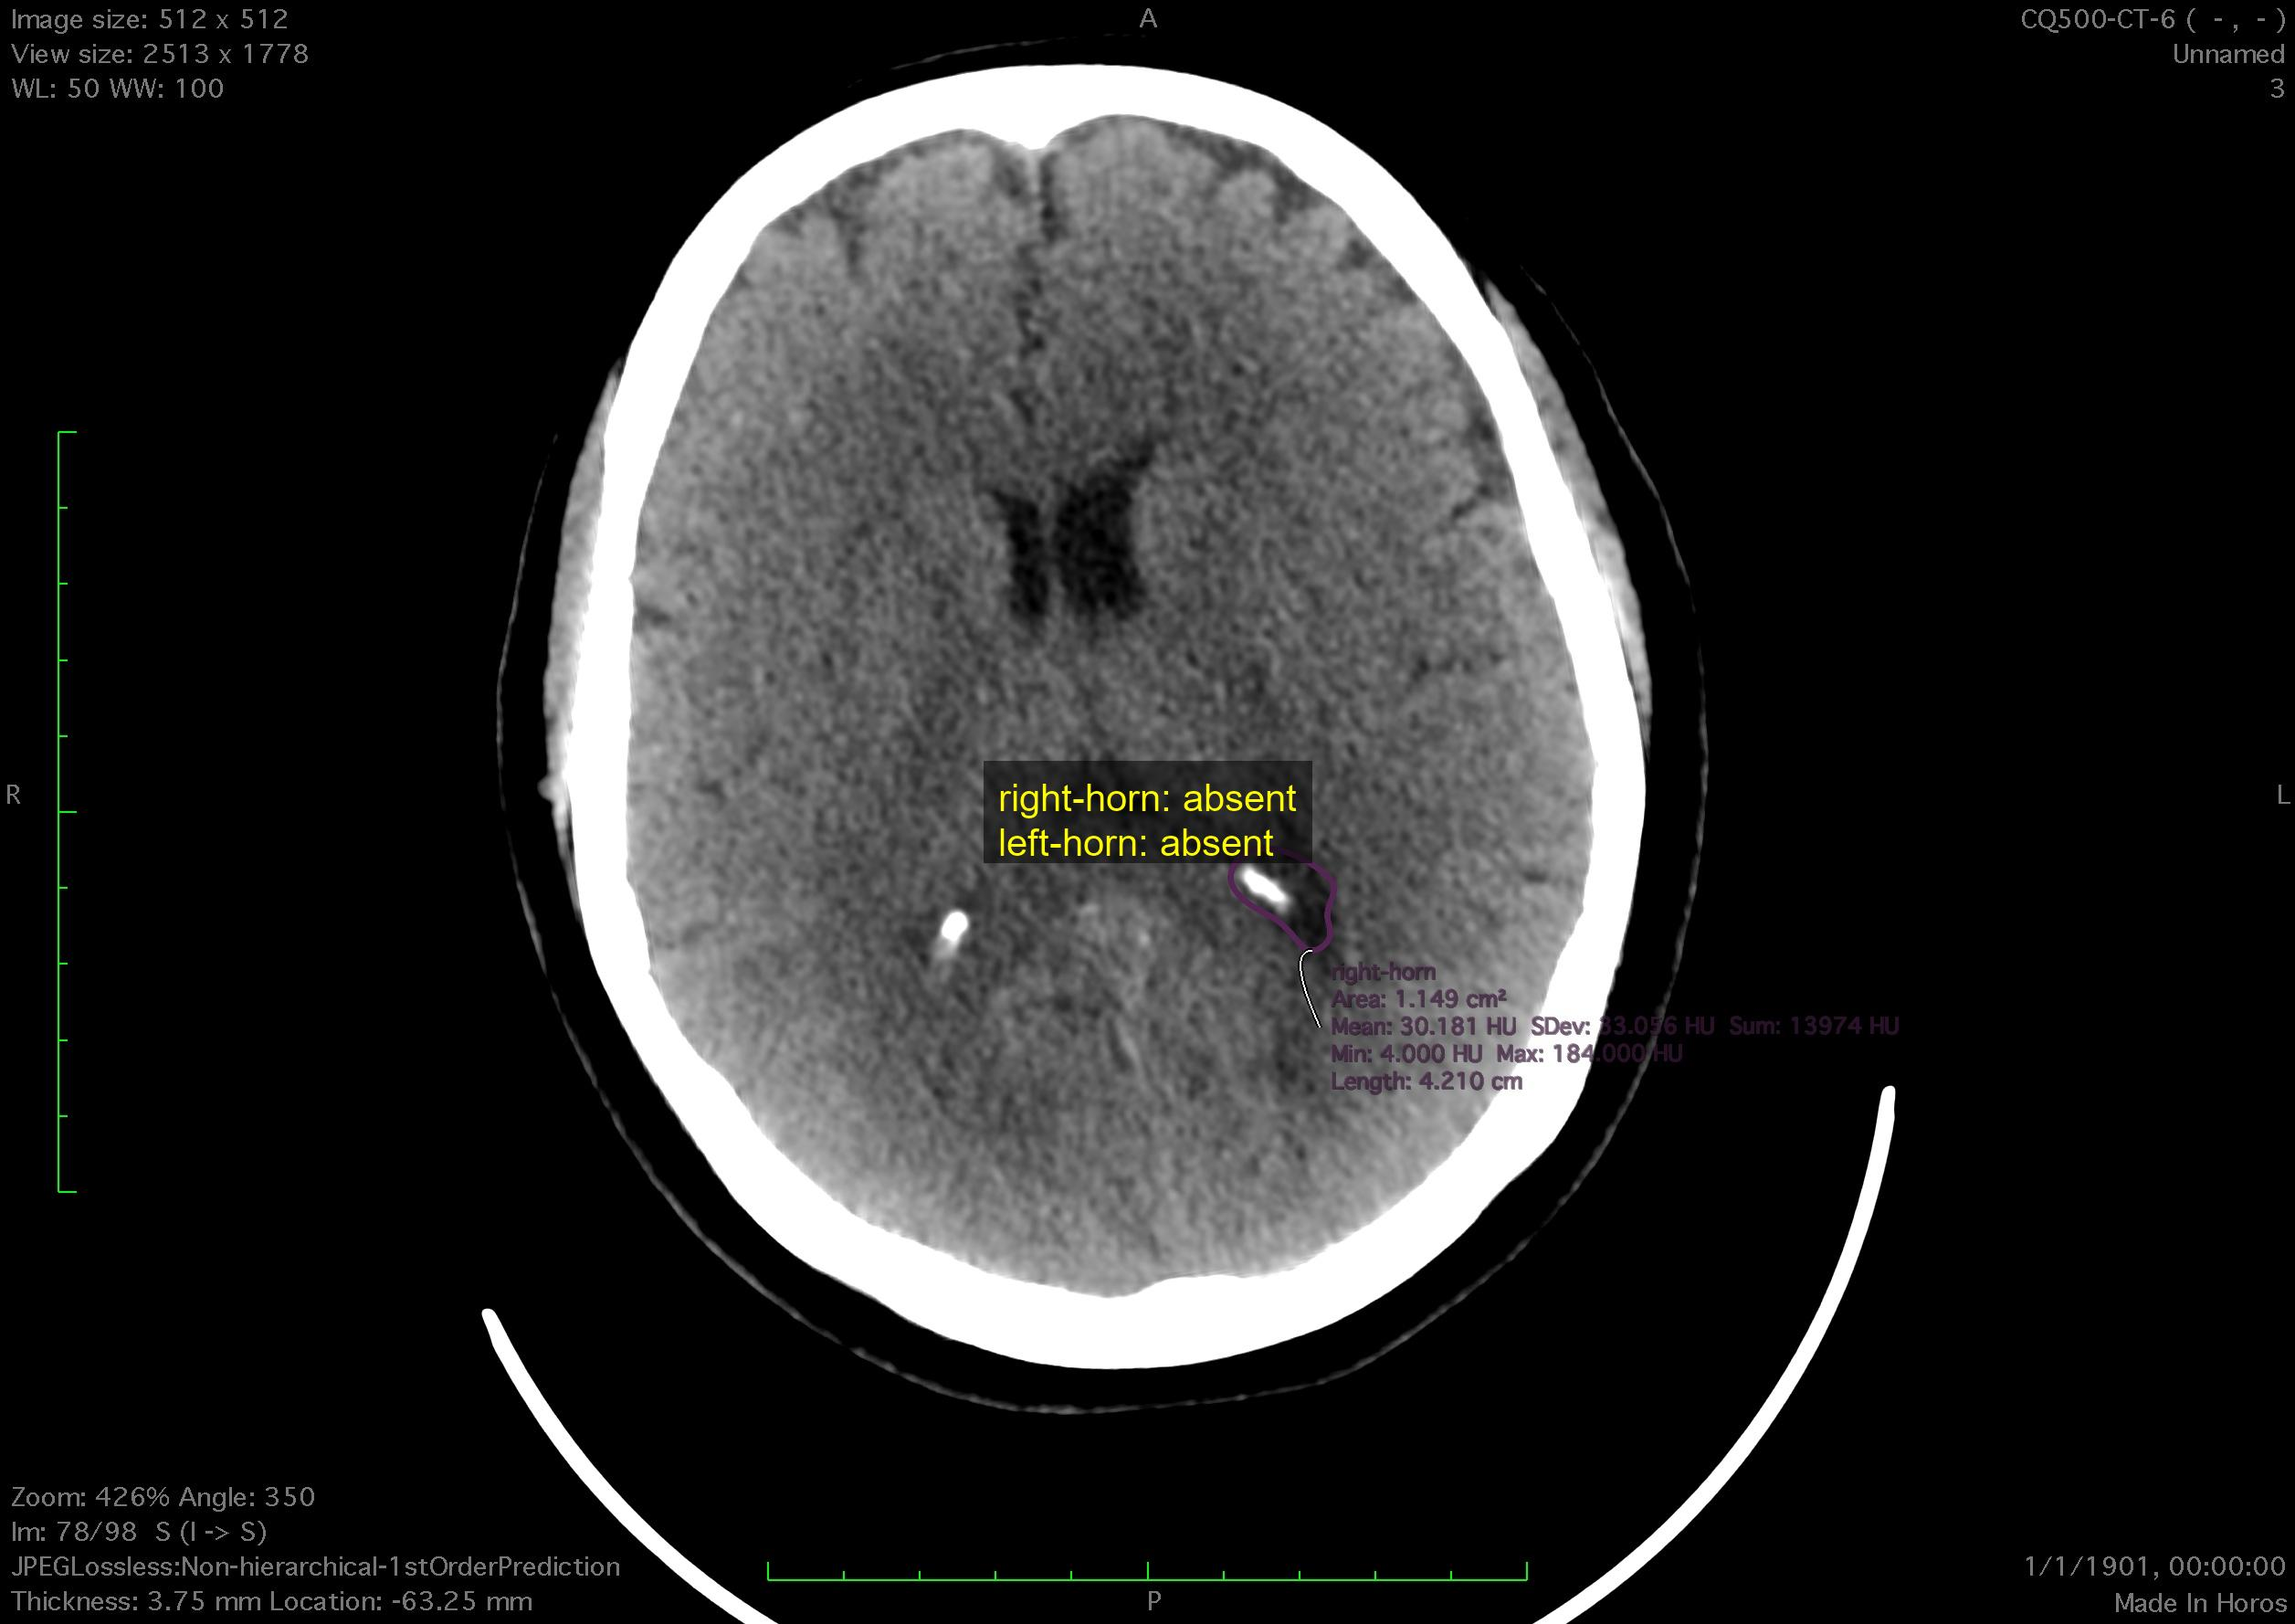
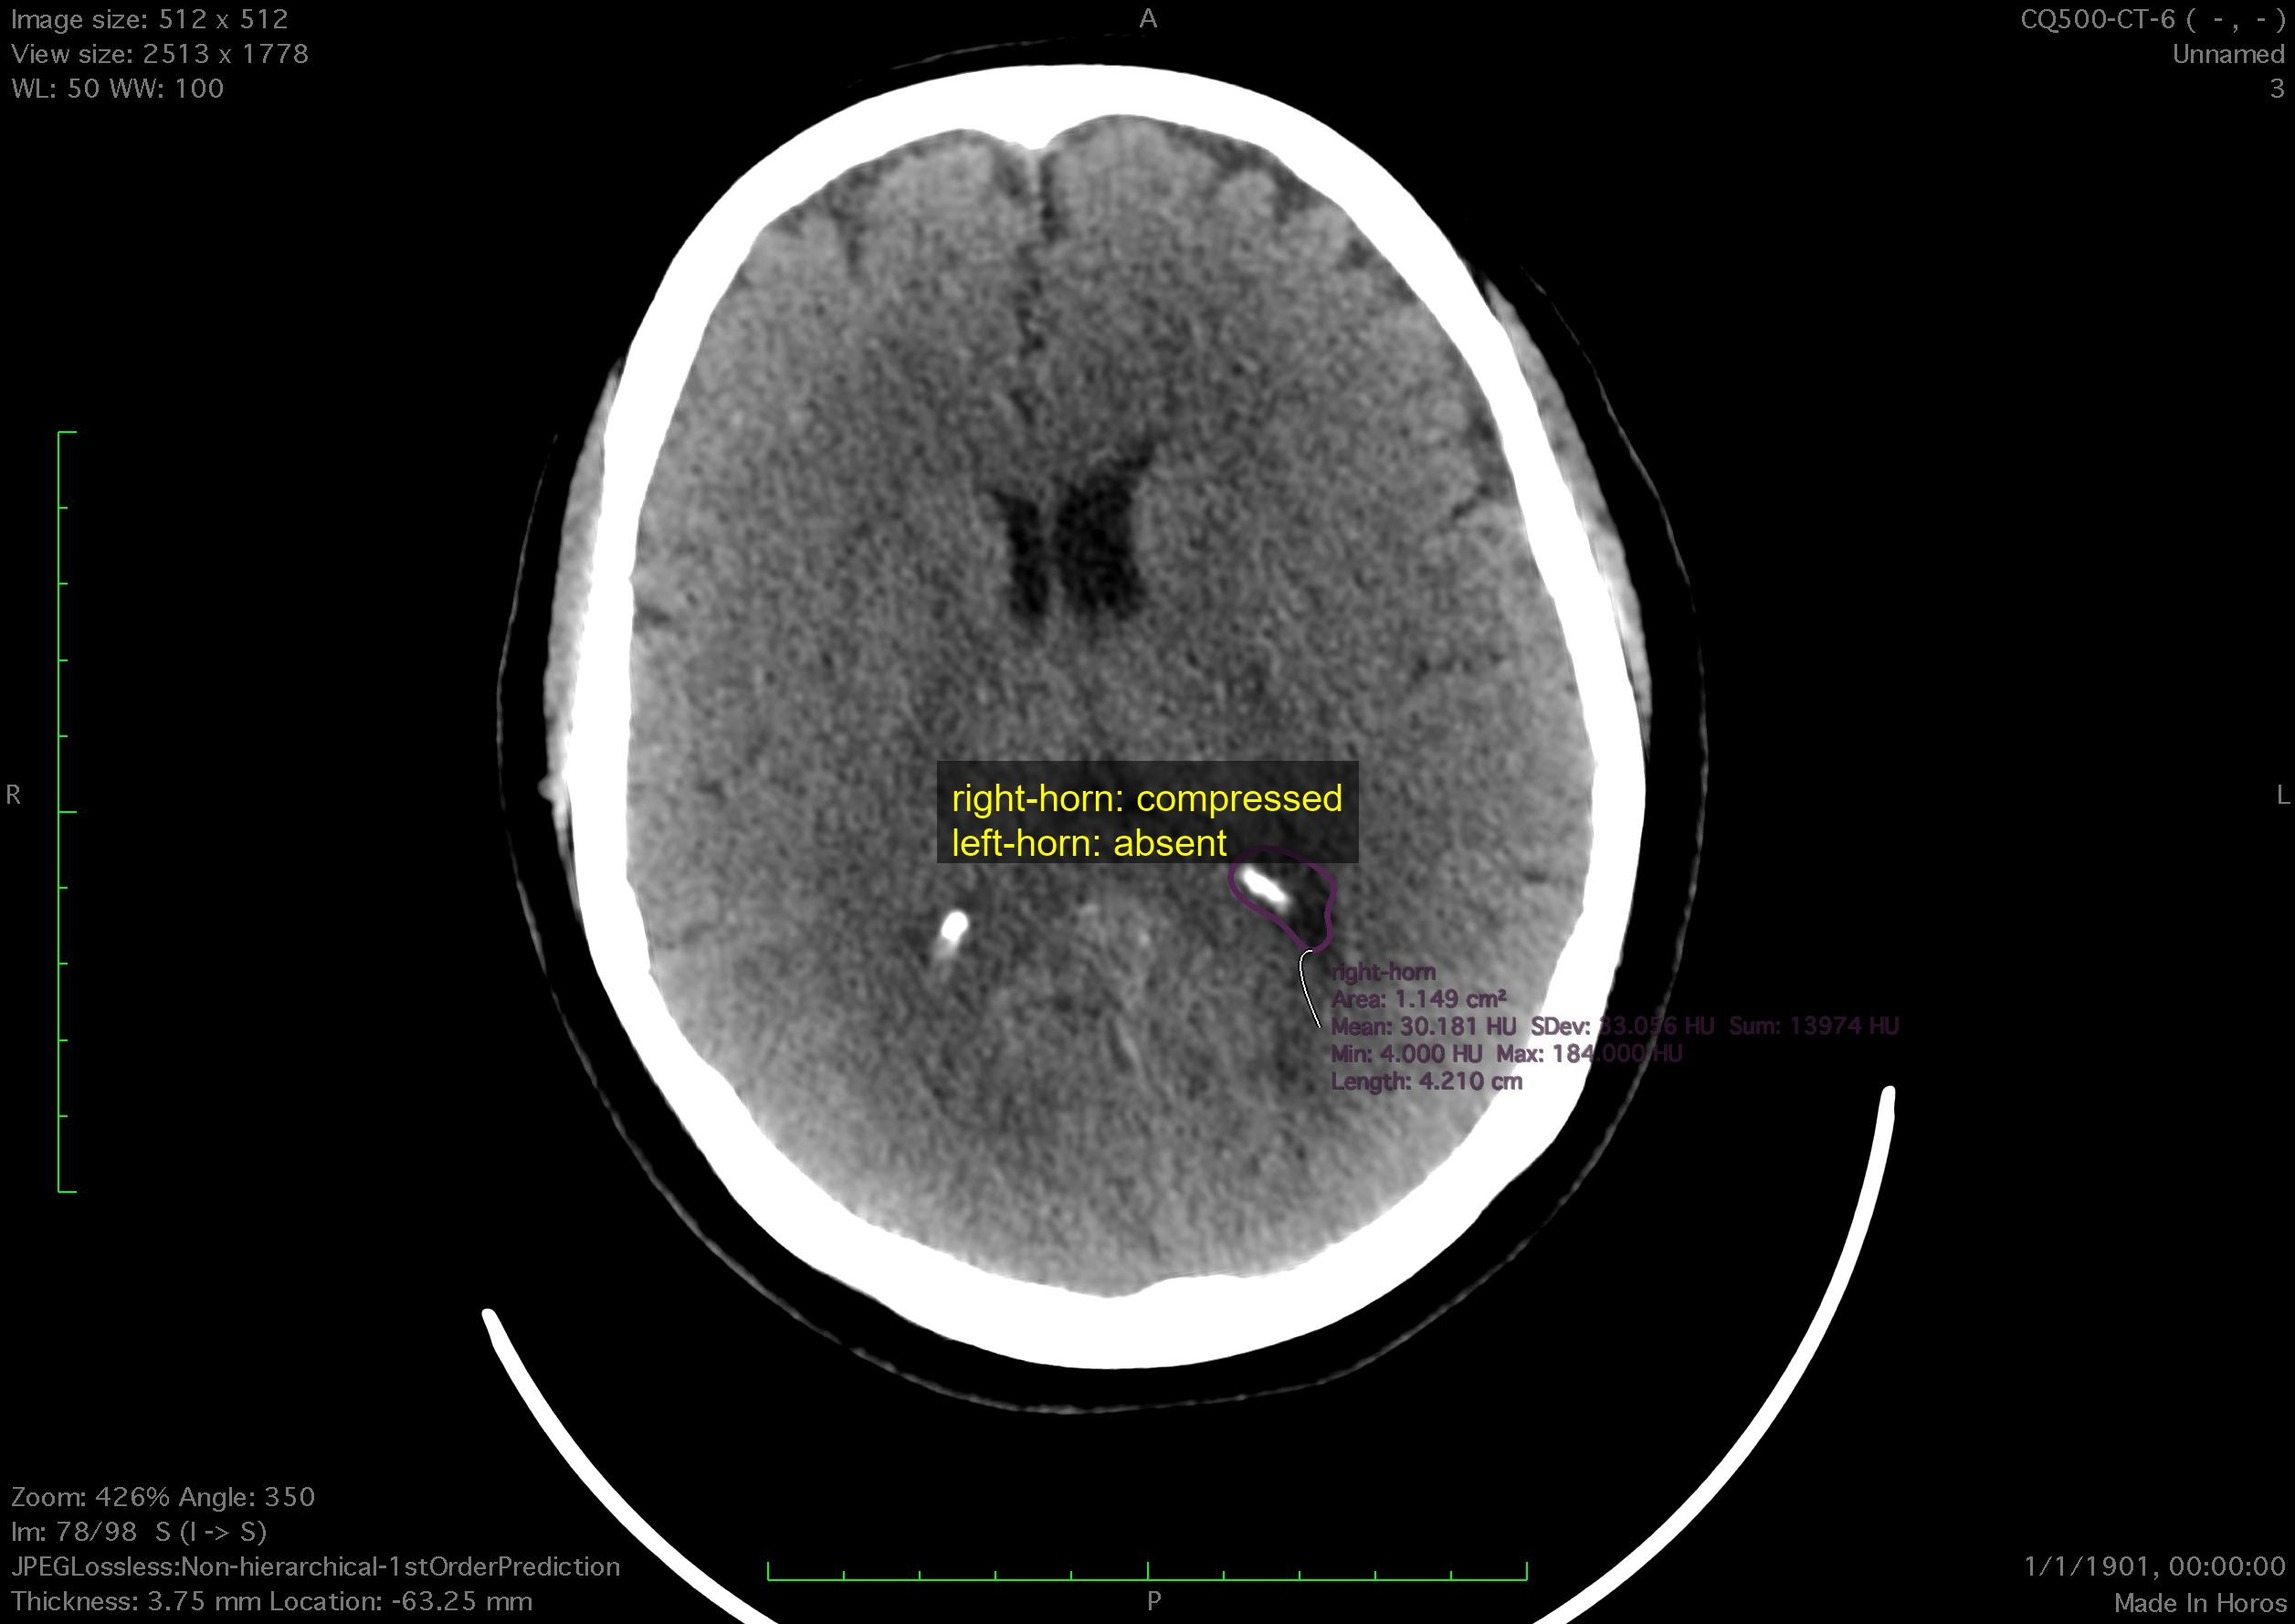
feat: add data for cisterns classification

Changed region(s): [[0.4035, 0.464, 0.5897, 0.5568]]

diff --git a/basal-cisterns-data-prepare.py b/basal-cisterns-data-prepare.py
@@ -27,6 +27,7 @@ def copy_cisterns_images(start: int | None = None, end: int | None = None) -> No
         raise FileNotFoundError(f"Source root does not exist: {SRC_ROOT}")
 
     for num in range(start, end + 1):
+        num = str(num)
         entry = SRC_ROOT / f"{FOLDER_PATTERN}{num}"
         if not entry.is_dir():
             continue
@@ -114,6 +115,7 @@ def add_labels_to_images(
         font = ImageFont.load_default()
 
     for num in range(start, end + 1):
+        num = str(num)
         entry = SRC_ROOT / f"{FOLDER_PATTERN}{num}"
         if not entry.is_dir():
             continue
@@ -185,6 +187,6 @@ def add_labels_to_images(
 
 
 if __name__ == "__main__":
-    copy_cisterns_images(start=0, end=20)
-    build_ground_truth_csv(start=0, end=20)
-    add_labels_to_images(start=0, end=20)
+    copy_cisterns_images(start=6, end=6)
+    # build_ground_truth_csv(start=6, end=6)
+    add_labels_to_images(start=6, end=6)
